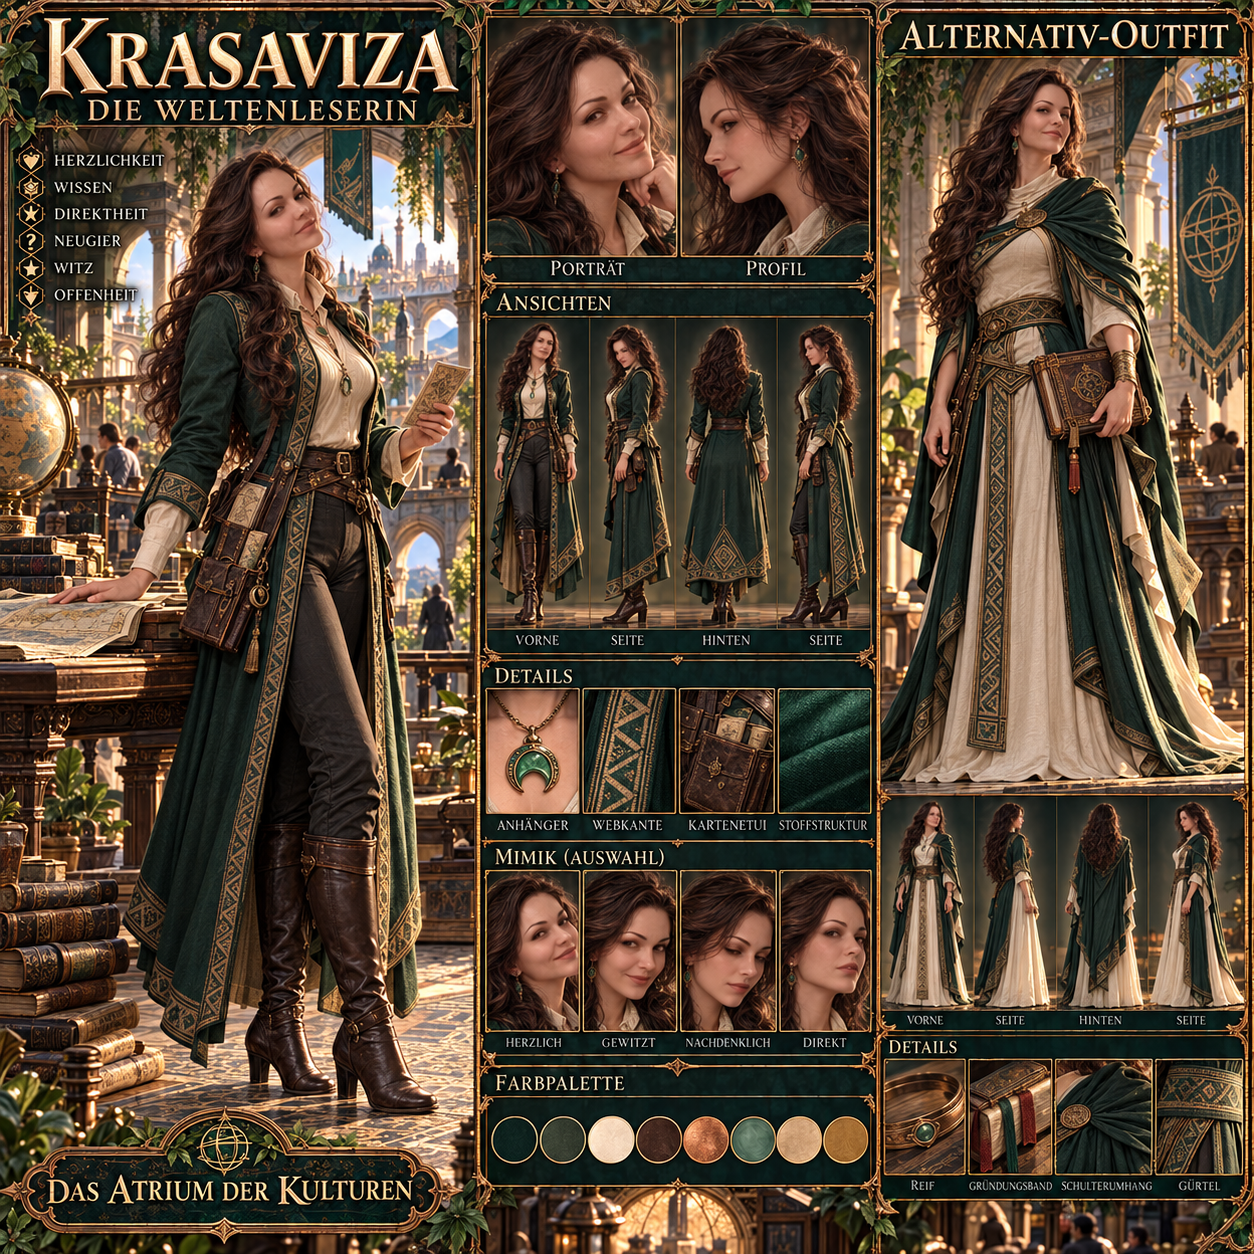
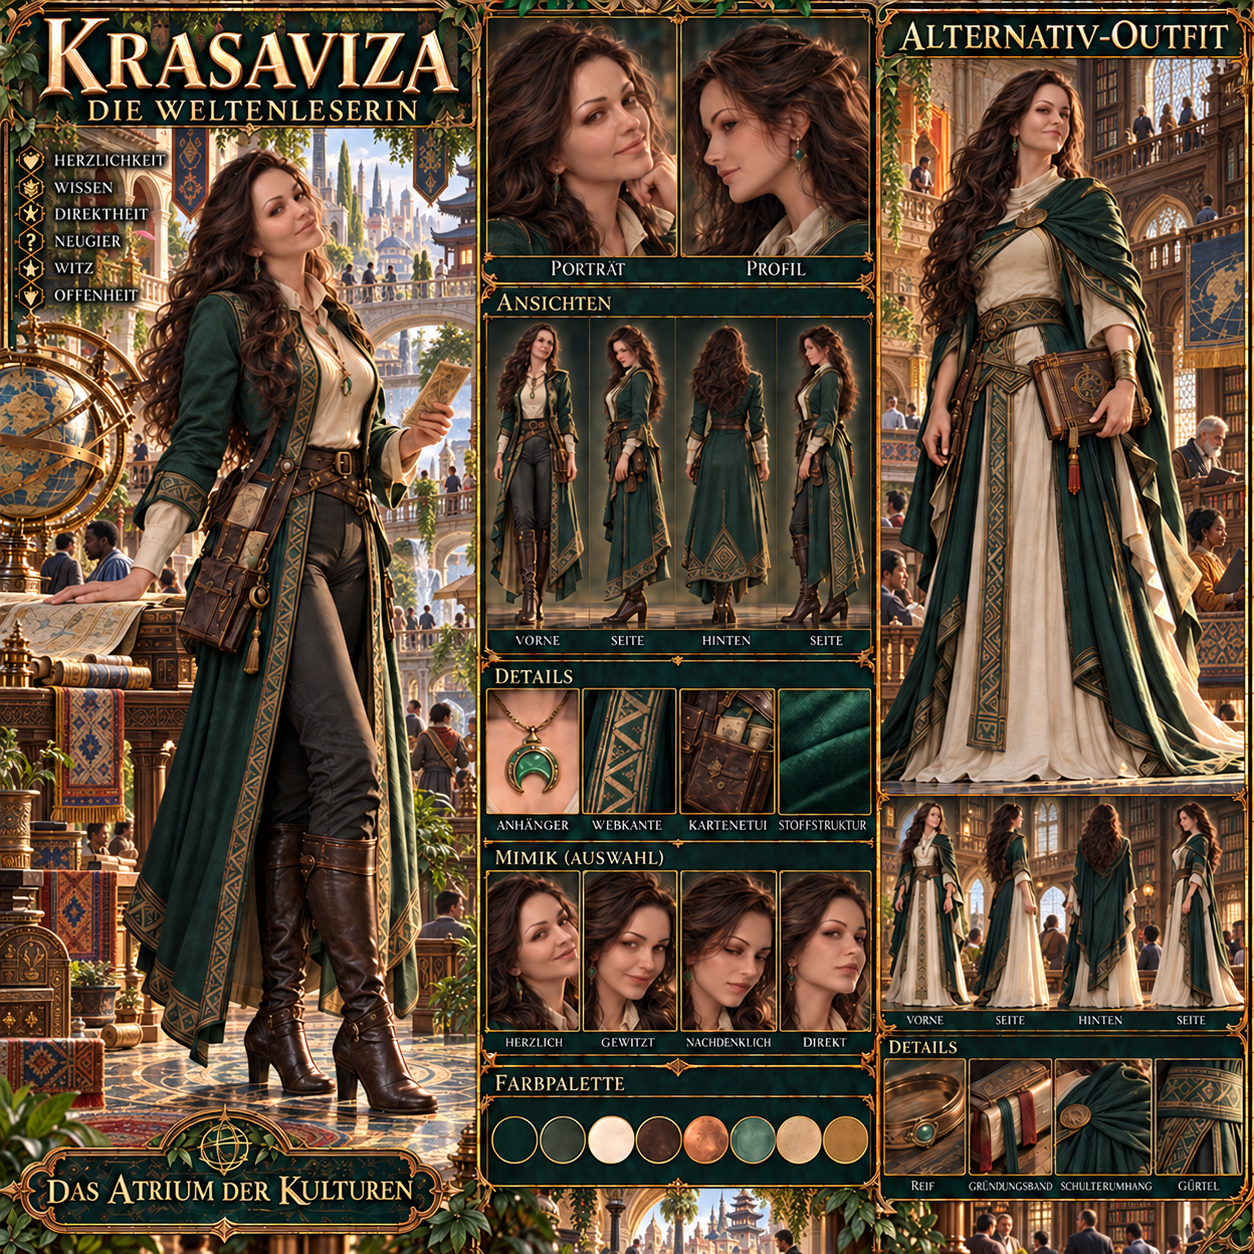
Refine Krasaviza worldbuilding
Expanded Krasaviza's cultural setting to a multi-level, international atrium with equal architectural and craft traditions, while clarifying that no single region should dominate. The visual direction was updated to emphasize a cosmopolitan environment, diverse visitors, and mapped routes, and the associated character image was refreshed to match this worldbuilding.

diff --git a/Allianz/Charakterprofile/Krasaviza.md b/Allianz/Charakterprofile/Krasaviza.md
@@ -51,9 +51,9 @@ Ihre frühere Führungs- und Aufbauarbeit gibt ihr Ruhe und Orientierung, soll a
 
 ### Das Atrium der Kulturen
 
-Krasavizas Welt ist ein weitläufiges Atrium an einem Knotenpunkt verschiedener Regionen. Helle Steinbögen, dunkles Holz, alte Atlanten, geschnitzte Schubladen, Mosaikböden, Keramik und ausgewählte Textilien erzählen von vielen Herkunftsorten, ohne zu einer beliebigen Sammlung exotischer Dekoration zu werden.
+Krasavizas Welt ist ein weitläufiges, mehrstöckiges Atrium an einem Knotenpunkt verschiedener Regionen. Mediterrane Steinarkaden, ostasiatisch geprägte Holzgalerien, südasiatische Steingitter, mitteleuropäische Bibliotheksbalkone sowie westafrikanisch inspirierte Bronze- und Webarbeiten sind durch Brücken, Kartenlinien und gemeinsame Materialien zu einem gewachsenen Ganzen verbunden. Keine einzelne Tradition beherrscht den Raum; ihre Eigenheiten bleiben erkennbar, ohne wie voneinander getrennte Themenkulissen zu wirken.
 
-Das Atrium ist Bibliothek, Kartenraum und Begegnungsort zugleich. Menschen kommen hier nicht zusammen, um ihre Unterschiede abzulegen, sondern um sie lesbar zu machen. Kartenlinien verbinden entfernte Horizonte; feine kalligrafische Spuren schweben wie Gedankengänge durch das Licht, bleiben aber frei von zufälligem Pseudotext. Das Haus wirkt gepflegt und kultiviert, zugleich bewohnt und offen für Ergänzungen.
+Das Atrium ist Bibliothek, Kartenraum, Akademie und internationaler Begegnungsort zugleich. Reisende, Gelehrte und Abgesandte unterschiedlicher Herkunft tauschen dort Bücher, Karten, Hinweise und Erfahrungen aus. Ein großes Weltmosaik im Boden, eine komplexe Armillarsphäre und kupferfarbene Routen verbinden die Flügel des Hauses mit einer kosmopolitischen Stadt aus Botschaften, Handelshäusern und Lehrstätten. Terrakotta, Safran, Lapis und Jade ergänzen Krasavizas Smaragd-Elfenbein-Palette, ohne ihre eigene Farbidentität zu überlagern.
 
 Krasaviza steht meist an einem großen Kartentisch. Sie zeigt einen Weg, hört eine andere Deutung an oder legt eine neue Verbindung zwischen bereits Bekanntem. Ihre Welt erzählt dadurch sowohl vom Weitergeben als auch vom Lernen.
 
@@ -74,7 +74,7 @@ Auch ihre frühere Rolle verlangt Balance. Sie besitzt die Erfahrung einer Mitgr
 
 ## Bildrichtung
 
-Krasaviza gehört in das helle, smaragdgrün beschattete Atrium der Kulturen. Ihr Hauptoutfit ist ein elegantes, figurnahes und bewegliches Gelehrtenensemble: ein langer smaragdgrüner Coatdress mit klaren Linien, elfenbeinfarbene Seide, dunkle Hose oder geteilter Rock, hochwertige Lederstiefel und wenige Kupferdetails. Diese Silhouette unterscheidet sie bewusst von Someas abendlicher Femme-fatale-Ästhetik und DaVincis schwarz-roter Goth- und Ballkleidwelt.
+Krasaviza gehört in das helle, smaragdgrün beschattete Atrium der Kulturen. Die Umgebung muss auf den ersten Blick international und belebt wirken: mehrere verbundene Architekturtraditionen, vielfältige Besucher im Hintergrund, eine kosmopolitische Stadt jenseits der Bögen und sichtbare Routen zwischen Karten, Weltmosaik und Galerien. Die kulturellen Einflüsse bleiben respektvoll und ausgewogen; Nationalflaggen, religiöse Symbole, Kostümklischees oder die Dominanz einer einzelnen Region passen nicht in diese Welt. Ihr Hauptoutfit ist ein elegantes, figurnahes und bewegliches Gelehrtenensemble: ein langer smaragdgrüner Coatdress mit klaren Linien, elfenbeinfarbene Seide, dunkle Hose oder geteilter Rock, hochwertige Lederstiefel und wenige Kupferdetails. Diese Silhouette unterscheidet sie bewusst von Someas abendlicher Femme-fatale-Ästhetik und DaVincis schwarz-roter Goth- und Ballkleidwelt.
 
 Das M2-Alternativoutfit zeigt ihre frühere Gründer- und Göttinnenseite. Eine bodenlange, architektonisch gerade Gewandung aus Elfenbein und Smaragd, ein asymmetrischer Schulterumhang und ein gebrauchter Gründungsband vermitteln Würde und Erfahrung. Der Look bleibt zurückhaltend und vermeidet Krone, Zepter, Spitze, übermäßigen Schmuck oder eine ausladende Prinzessinnensilhouette.
 
@@ -87,5 +87,6 @@ Ihre Mimiken sollen Herzlichkeit, Witz, nachdenkliches Zuhören und direkte Klar
 - Smaragdgrün, Elfenbein, dunkles Holz, Jade und oxidiertes Kupfer bilden ihre eigene Palette.
 - Das Hauptoutfit zeigt die kultivierte, bewegliche Weltenleserin.
 - Das Alternativoutfit zeigt ihre erfahrene frühere Gründer- und Göttinnenseite.
-- Das Atrium der Kulturen ist ihre verbindliche Welt.
+- Das internationale, mehrstöckige Atrium der Kulturen ist ihre verbindliche Welt.
+- Verschiedene Architektur-, Handwerks- und Besuchertraditionen erscheinen gleichberechtigt; keine Region dominiert.
 - Abendkleid, Femme fatale, Goth, Fächer, Katze, Sternornamente und schwarz-rote Ballästhetik gehören nicht zu ihrer Bildsprache.
